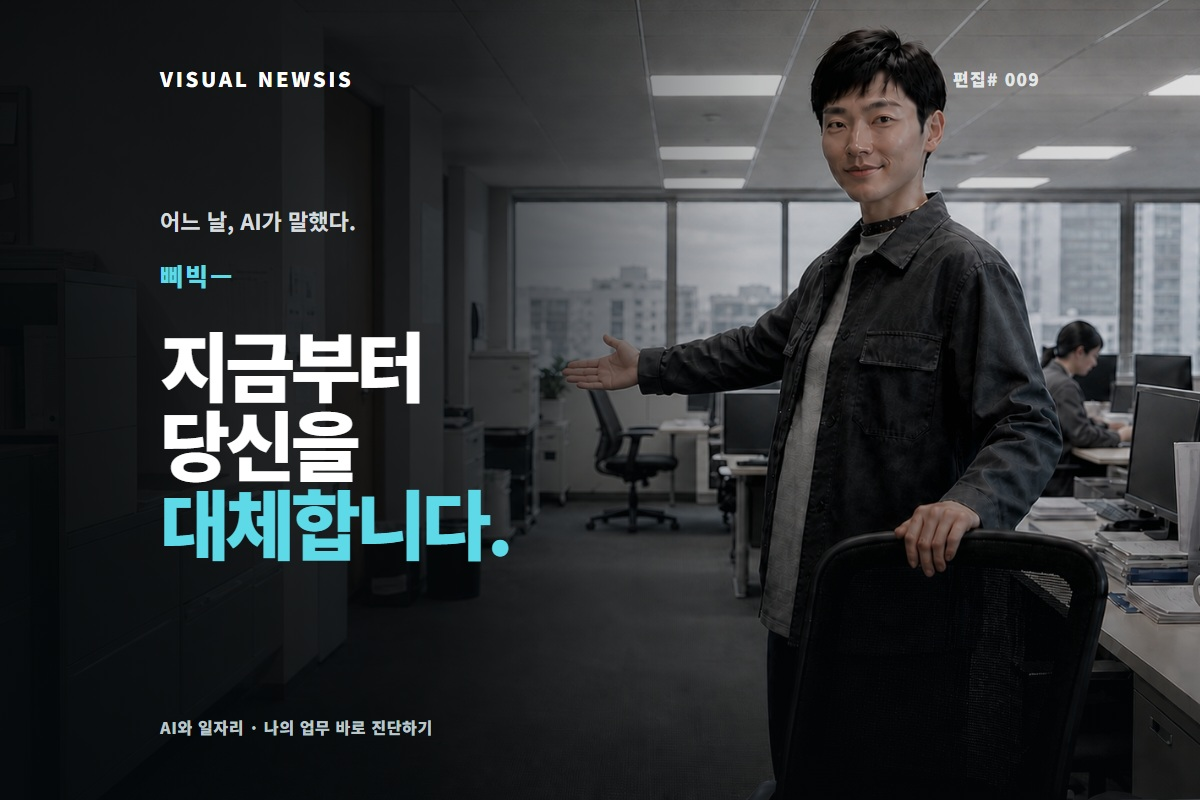
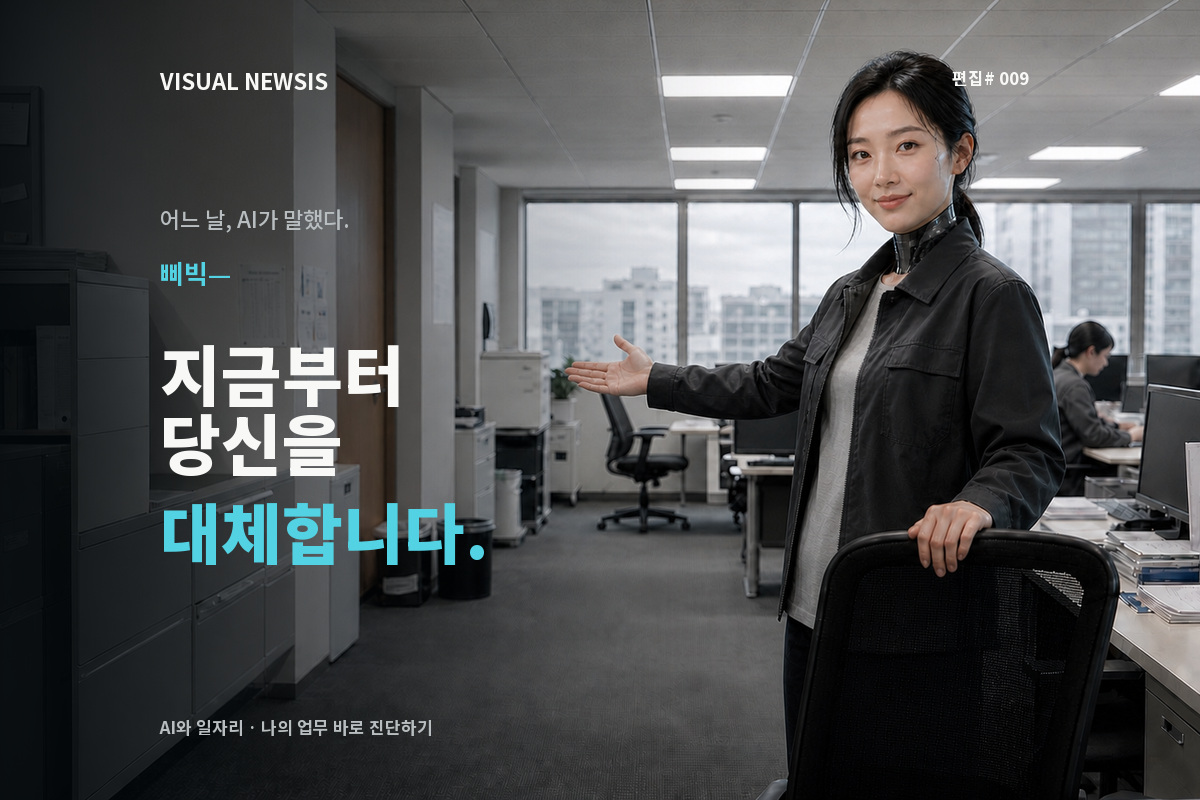
Update AI job hero character and portal assets

diff --git a/aijob/index.html b/aijob/index.html
@@ -266,7 +266,7 @@
 
   <main>
     <section class="section hero">
-      <div class="hero-photo"><img src="images/hero-humanoid-office-day-v5.png" alt="밝은 사무실에서 의자를 잡고 문 쪽을 안내하는 인간형 AI 로봇" fetchpriority="high"></div>
+      <div class="hero-photo"><img src="images/hero-humanoid-office-day-v6.png" alt="밝은 사무실에서 의자를 잡고 왼쪽을 안내하는 여성형 AI 휴머노이드" fetchpriority="high"></div>
       <div class="hero-grid-bg" aria-hidden="true"></div>
       <div class="hero-watermark" aria-hidden="true">AI</div>
       <div class="wrap hero-grid">
